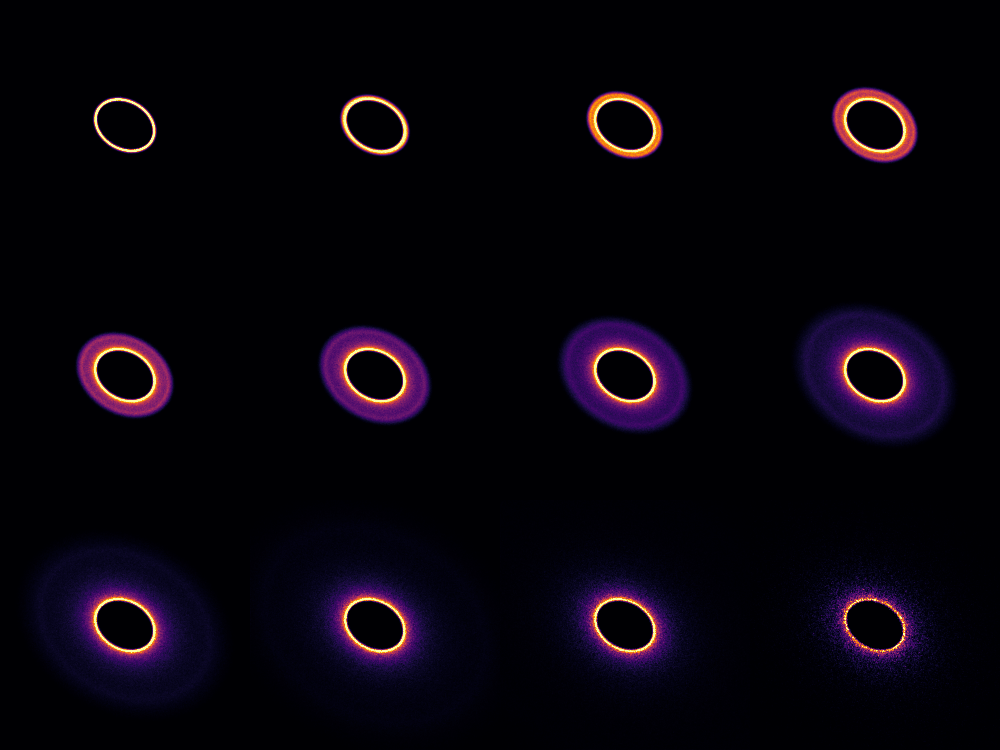
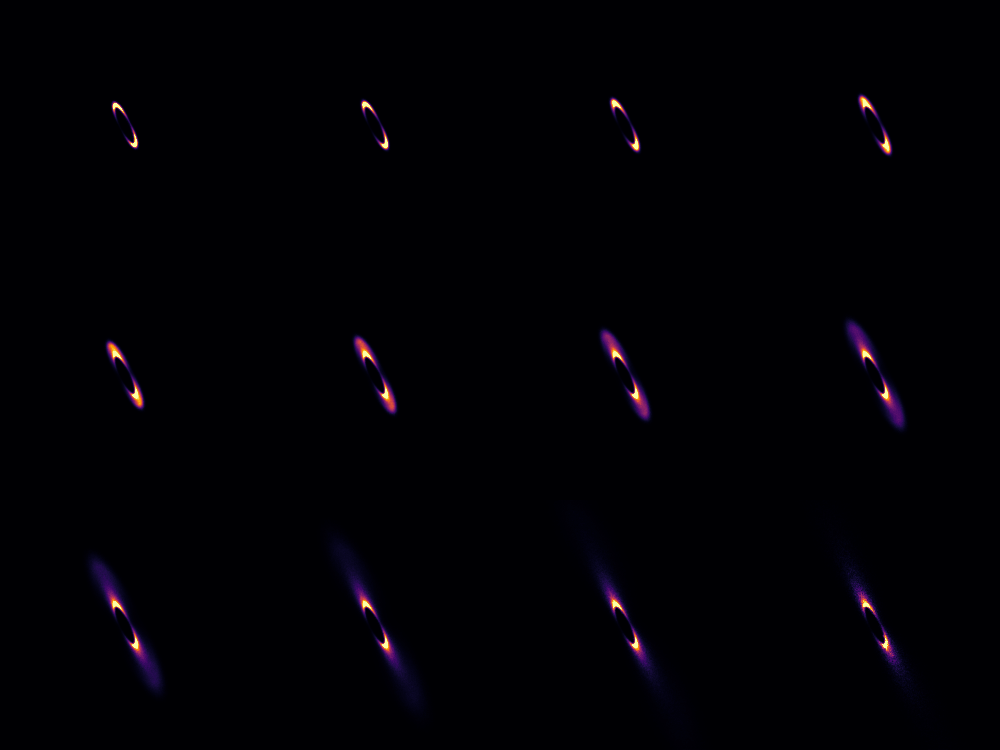
Radial profiles

diff --git a/betadisk.py b/betadisk.py
@@ -12,7 +12,7 @@ class BetaDisk(object):
     """
     docstring for BetaDisk
     """
-    def __init__(self, nx = 300, nl = 10_000_000, nb = 50, ng = 10, pixscale = 0.01226, bmax = 0.49, \
+    def __init__(self, nx = 300, nl = 10_000_000, nb = 51, ng = 10, pixscale = 0.01226, bmax = 0.49, \
             bmin = 0.001, slope = 0.5, thermal = False, lstar = None, dpc = None, owave = None, \
             nwav = 100, dx = 0., dy = 0.):
         """
@@ -23,13 +23,49 @@ class BetaDisk(object):
         self._slope = slope
         self._dx, self._dy = dx, dy
         self._beta = self._get_size(bmin, bmax)
+        self._r = np.zeros(self._nl)
         self._bgrid = np.linspace(bmin, bmax, num = ng+1)
         self.model = np.zeros((self._ng, self._nx, self._nx))
-        self._a, self._dr, self._incl, self._pa, self._opang, self._pfunc = 1., 0.02, 0., 0., 0.05, None
+        self._incl, self._pa, self._opang, self._pfunc = 0., 0., 0.05, None
         self._dpi, self._is_hg, self._ghg = False, False, 0.
         self._thermal, self._lstar, self._dpc, self._owave = thermal, lstar, dpc, owave
         self.wave = np.geomspace(0.1, 2000., num = self._nwav)
         self.sed = np.zeros((self._nwav, self._ng))
+        # self._radial = {"model_type": "normal", "a": 1., "dr": 0.1}
+        self._radial = {"model_type": "powerlaws", "a": 1., "pin": 5.0, "pout": -5.0, "gamma": 2., "threshold": 1.e-2, "nr": 100}
+
+    def _check_radial(self):
+        """
+        Check that the dictionary for the radial structure
+        contains enough information
+        """
+        keys = self._radial.keys()
+        if self._radial["model_type"] == "powerlaws":
+            if ("a" not in keys) or ("pin" not in keys) or ("pout" not in keys) or ("nr" not in keys):
+                print("Problem with the way the radial structure is defined ... ")
+                sys.exit(0)
+        elif self._radial["model_type"] == "normal":
+            if ("a" not in keys) or ("dr" not in keys):
+                print("Problem with the way the radial structure is defined ... ")
+                sys.exit(0)
+        else:
+            print("Problem with the kind of radial structure you want")
+            sys.exit(0)
+
+    def _get_radial(self):
+        """
+        Commpute the radial distribution of the birth ring
+        """
+        self._check_radial()
+        if self._radial["model_type"] == "powerlaws":
+            rmax = self._radial["threshold"]**(1.e0 / self._radial["pout"]) * self._radial["a"]
+            rmin = self._radial["threshold"]**(1.e0 / self._radial["pin"]) * self._radial["a"]
+            r = np.linspace(rmin, rmax, num = self._radial["nr"])
+            dens = ((r/self._radial["a"])**(-self._radial["pin"]*self._radial["gamma"]) + (r/self._radial["a"])**(-self._radial["pout"]*self._radial["gamma"]))**(-1./self._radial["gamma"])
+            dens /= np.sum(dens)
+            self._r = np.random.choice(r, size = self._nl, p=dens)
+        elif self._radial["model_type"] == "normal":
+            self._r = np.random.normal(self._radial["a"], self._radial["dr"], size = self._nl)
 
     def _get_size(self, smin, smax):
         """
@@ -46,13 +82,13 @@ class BetaDisk(object):
         """
         self._check_parameters(kwargs)
         if self._lstar is None:
-            raise ValueError('You need to provide a luminosity for the SED')
+            raise ValueError("You need to provide a luminosity for the SED")
         if self._dpc is None:
-            raise ValueError('You need to provide a distance in pc for the SED')
+            raise ValueError("You need to provide a distance in pc for the SED")
         for i in range(self._ng):
             sel = ((self._beta >= self._bgrid[i]) & (self._beta < self._bgrid[i+1]))
             btmp = self._beta[sel]
-            self.sed[:,i] = frame.sed(btmp, self._a, self._dr, self._opang, self._slope,\
+            self.sed[:,i] = frame.sed(btmp, self._r, self._opang, self._slope,\
                                              self._dpc, self._lstar, self.wave, len(btmp))
 
     def compute_model(self, **kwargs):
@@ -68,15 +104,15 @@ class BetaDisk(object):
         """
         if self._thermal:
             if self._lstar is None:
-                raise ValueError('You need to provide a luminosity for thermal images')
+                raise ValueError("You need to provide a luminosity for thermal images")
             if self._dpc is None:
-                raise ValueError('You need to provide a distance in pc for thermal images')
+                raise ValueError("You need to provide a distance in pc for thermal images")
             if self._owave is None:
-                raise ValueError('You need to provide a wavelength in microns for thermal images')
+                raise ValueError("You need to provide a wavelength in microns for thermal images")
             for i in range(self._ng):
                 sel = ((self._beta >= self._bgrid[i]) & (self._beta < self._bgrid[i+1]))
                 btmp = self._beta[sel]
-                self.model[i,:,:] = frame.alma(btmp, self._a, self._dr, self._incl, \
+                self.model[i,:,:] = frame.alma(btmp, self._r, self._incl, \
                                                  self._opang, self._pa, self._pixscale, self._slope,\
                                                  self._dpc, self._lstar, self._owave, \
                                                  self._dx, self._dy, len(btmp), self._nx)
@@ -93,7 +129,7 @@ class BetaDisk(object):
                         pfunc = self._pfunc
                 sel = ((self._beta >= self._bgrid[i]) & (self._beta < self._bgrid[i+1]))
                 btmp = self._beta[sel]
-                self.model[i,:,:] = frame.sphere(btmp, self._a, self._dr, self._incl, \
+                self.model[i,:,:] = frame.sphere(btmp, self._r, self._incl, \
                                                  self._opang, self._pa, self._pixscale, self._slope,\
                                                  self._is_hg, ghg, self._theta, pfunc, self._dx, self._dy,\
                                                  len(btmp), self._nx, self._dpi)
@@ -105,37 +141,68 @@ class BetaDisk(object):
         """
         Check parameters that are being passed
         """
-        if 'a' in kwargs:
-            self._a = kwargs['a']
-        if 'dr' in kwargs:
-            self._dr = kwargs['dr']
-        if 'incl' in kwargs:
-            self._incl = kwargs['incl'] * np.pi / 180.
-        if 'pa' in kwargs:
-            self._pa = kwargs['pa'] * np.pi / 180.
-        if 'opang' in kwargs:
-            self._opang = kwargs['opang']
-        if 'dpi' in kwargs:
-            self._dpi = kwargs['dpi']
-        if 'is_hg' in kwargs:
-            self._is_hg = kwargs['is_hg']
-            if 'ghg' in kwargs:
-                self._ghg = kwargs['ghg']
+        if "model_type" in kwargs:
+            self._radial["model_type"] = kwargs["model_type"]
+        if "a" in kwargs:
+            self._radial["a"] = kwargs["a"]
+        if "pin" in kwargs:
+            self._radial["pin"] = kwargs["pin"]
+        if "pout" in kwargs:
+            self._radial["pout"] = kwargs["pout"]
+        if "dr" in kwargs:
+            self._radial["dr"] = kwargs["dr"]
+        if "incl" in kwargs:
+            self._incl = kwargs["incl"] * np.pi / 180.
+        if "pa" in kwargs:
+            self._pa = kwargs["pa"] * np.pi / 180.
+        if "opang" in kwargs:
+            self._opang = kwargs["opang"]
+        if "dpi" in kwargs:
+            self._dpi = kwargs["dpi"]
+        if "is_hg" in kwargs:
+            self._is_hg = kwargs["is_hg"]
+            if "ghg" in kwargs:
+                self._ghg = kwargs["ghg"]
                 if type(self._ghg) is np.ndarray:
                     if len(self._ghg) != self._ng:
-                        print('The array for HG should have the same size as the number of grain sizes')
+                        print("The array for HG should have the same size as the number of grain sizes")
                         sys.exit(0)
-        if 'pfunc' in kwargs:
-            self._pfunc = kwargs['pfunc']
+        if "pfunc" in kwargs:
+            self._pfunc = kwargs["pfunc"]
             self._theta = np.linspace(0., np.pi, num = np.shape(self._pfunc)[0])
+        self._get_radial()
 
     @property
     def a(self):
-        return self._a
+        return self._radial["a"]
 
     @a.setter
     def a(self, a):
-        self._a = a
+        self._radial["a"] = a
+
+    @property
+    def model_type(self):
+        return self._radial["model_type"]
+
+    @model_type.setter
+    def model_type(self, model_type):
+        self._radial["model_type"] = model_type
+
+    @property
+    def pin(self):
+        return self._radial["pin"]
+
+    @pin.setter
+    def pin(self, pin):
+        self._radial["pin"] = pin
+
+    @property
+    def pout(self):
+        return self._radial["pout"]
+
+    @pout.setter
+    def pout(self, pout):
+        self._radial["pout"] = pout
 
     @property
     def opang(self):
@@ -147,11 +214,11 @@ class BetaDisk(object):
 
     @property
     def dr(self):
-        return self._dr
+        return self._radial["dr"]
 
     @dr.setter
     def dr(self, dr):
-        self._dr = dr
+        self._radial["dr"] = dr
 
     @property
     def incl(self):
@@ -177,8 +244,8 @@ def example_image():
         cx = nx//2
     disk = BetaDisk(nx = nx, ng = ng)
     t0 = time.perf_counter()
-    disk.compute_model(a = 1.5, dr = 0.030, incl = 40.0, pa = -120.0, opang = 0.05)
-    print('Whole process took: {:.2f} sec'.format(time.perf_counter()-t0))
+    disk.compute_model(a = 1.08, pin = 29., pout = -21.89, incl = 76.0, pa = -153.6, opang = 0.05, is_hg = True, dpi = True, ghg = 0.3)
+    print("Whole process took: {:.2f} sec".format(time.perf_counter()-t0))
     """
     Make a pretty plot
     """
@@ -190,8 +257,8 @@ def example_image():
     for i in range(3):
         for j in range(4):
             ax1 = fig.add_subplot(ax[i,j])
-            ax1.imshow(disk.model[ct,], origin='lower', extent = [xlim, -xlim, -xlim, xlim],
-                            vmax=np.percentile(disk.model[ct,], 99.5), cmap = 'inferno')
+            ax1.imshow(disk.model[ct,], origin='lower', extent = (xlim, -xlim, -xlim, xlim),
+                            vmax=np.percentile(disk.model[ct,], 99.9), cmap = 'inferno')
             ax1.set_xticks([])
             ax1.set_yticks([])
             ax1.set_axis_off()
@@ -203,16 +270,16 @@ def example_sed():
     ng = 12
     disk = BetaDisk(ng = ng, lstar = 2.5, dpc = 100.)
     t0 = time.perf_counter()
-    disk.compute_sed(a = 0.5, dr = 0.030, opang = 0.05)
+    disk.compute_sed(a = 1.05, pin = 25., opang = 0.05)
     print('Whole process took: {:.2f} sec'.format(time.perf_counter()-t0))
     sedisk = np.sum(disk.sed, axis = 1) * CC/disk.wave
     index = np.log10(sedisk[90]/sedisk[80])/np.log10(disk.wave[90]/disk.wave[80])
-    print('Mm index between {:.2f} and {:.2f} is: {:.2f}'.format(disk.wave[80], disk.wave[90], index))
+    print("Mm index between {:.2f} and {:.2f} is: {:.2f}".format(disk.wave[80], disk.wave[90], index))
     """
     Make a pretty plot
     """
     fig = plt.figure(figsize=(7,6))
-    ax1 = fig.add_axes([0.16, 0.14, 0.8, 0.79])
+    ax1 = fig.add_axes((0.16, 0.14, 0.8, 0.79))
     ax1.set_xscale("log", nonpositive='clip')
     ax1.set_yscale("log", nonpositive='clip')
     for i in range(ng):
@@ -226,7 +293,7 @@ def example_sed():
 
 
 if __name__ == "__main__":
-    # example_image()
-    example_sed()
+    example_image()
+    # example_sed()
 
 

diff --git a/frame.py b/frame.py
@@ -80,21 +80,19 @@ def binarysearch(arr, h, x):
     return l
 
 @njit(nogil=True)
-def get_xyz(a, dr, opang, ecc, beta):
+def get_xyz(a, opang, ecc, beta):
     """
     Get the orbital parameters of the parent bodies
     """
     w = np.random.random() * 2. * np.pi - np.pi
     pa = np.random.random() * 2. * np.pi - np.pi
     deltai = np.random.normal(0., opang)
-    # deltai = np.random.rayleigh(scale = opang)
-    # sma = np.random.uniform(a, a+dr)
-    sma = np.random.normal(a, dr)
+    # sma = np.random.normal(a, dr)
     nu_l = get_launch(ecc)
     """
     Get the updated orbital parameters
     """
-    an = sma * (1.e0 - beta) / (1.e0 - 2. * beta*(1.0 + ecc * np.cos(nu_l))/(1.0 - ecc * ecc))
+    an = a * (1.e0 - beta) / (1.e0 - 2. * beta*(1.0 + ecc * np.cos(nu_l))/(1.0 - ecc * ecc))
     en = 1. / (1.0 - beta) * np.sqrt(ecc * ecc + 2.0 * beta * ecc * np.cos(nu_l) + beta * beta)
     wn = np.arctan2(beta * np.sin(nu_l), (beta * np.cos(nu_l) + ecc)) + w
     """
@@ -115,8 +113,8 @@ def get_xyz(a, dr, opang, ecc, beta):
 
 
 @njit(nogil=True)
-@ccompile.export('sed', 'f8[:](f8[:], f8, f8, f8, f8, f8, f8, f8[:], i4)')
-def sed(beta, a, dr, opang, slope, dpc, lstar, wave, nl):
+@ccompile.export('sed', 'f8[:](f8[:], f8[:], f8, f8, f8, f8, f8[:], i4)')
+def sed(beta, a, opang, slope, dpc, lstar, wave, nl):
     nu = CC / wave
     bterm = 2. * HH * nu * nu * nu / (CC * CC)
     expcst = nu * HH / KK
@@ -127,7 +125,7 @@ def sed(beta, a, dr, opang, slope, dpc, lstar, wave, nl):
     Here we go
     """
     for il in range(nl):
-        xm, ym, zm, dist = get_xyz(a, dr, opang, ecc, beta[il])
+        _, _, _, dist = get_xyz(a[il], opang, ecc, beta[il])
         btemp = 278.3 / np.sqrt(dist*dpc) * lstar**0.25
         expterm = np.exp(expcst / btemp)
         bplanck = bterm / (expterm-1.0) # should be in erg/s/cm/cm/Hz
@@ -137,8 +135,8 @@ def sed(beta, a, dr, opang, slope, dpc, lstar, wave, nl):
     return sedist
 
 @njit(nogil=True)
-@ccompile.export('alma', 'f8[:,:](f8[:], f8, f8, f8, f8, f8, f8, f8, f8, f8, f8, f8, f8, i4, i4)')
-def alma(beta, a, dr, incl, opang, dpa, pixscale, slope, dpc, lstar, wave, dx, dy, nl, nx):
+@ccompile.export('alma', 'f8[:,:](f8[:], f8[:], f8, f8, f8, f8, f8, f8, f8, f8, f8, f8, i4, i4)')
+def alma(beta, a, incl, opang, dpa, pixscale, slope, dpc, lstar, wave, dx, dy, nl, nx):
     nu = CC / wave
     bterm = 2. * HH * nu * nu * nu / (CC * CC)
     expcst = nu * HH / KK
@@ -158,7 +156,7 @@ def alma(beta, a, dr, incl, opang, dpa, pixscale, slope, dpc, lstar, wave, dx, d
     Here we go
     """
     for il in range(nl):
-        xm, ym, zm, dist = get_xyz(a, dr, opang, ecc, beta[il])
+        xm, ym, zm, dist = get_xyz(a[il], opang, ecc, beta[il])
         btemp = 278.3 / np.sqrt(dist*dpc) * lstar**0.25
         expterm = np.exp(expcst / btemp)
         bplanck = bterm / (expterm-1.0) # the units don't matter since this is at one wavelength
@@ -170,8 +168,8 @@ def alma(beta, a, dr, incl, opang, dpa, pixscale, slope, dpc, lstar, wave, dx, d
         xn = xm * cospa - ym * sinpa
         yn = xm * sinpa + ym * cospa
 
-        xn = int((xn + dx)/pixscale + cx)
-        yn = int((yn + dy)/pixscale + cx)
+        xn = int((xn + dy)/pixscale + cx) # I put dy so that this would be in Declination
+        yn = int((yn + dx)/pixscale + cx) # I put dx so that this would be in RA. And I'm using -dx so that it goes in the other direction
         if ((xn>=0) and (xn<=nx-1) and (yn>=0) and (yn<=nx-1)):
             corr_fac = (beta[il]/0.49)**(1.5-slope-2.)
             corr_fac *= ((1.-beta[il])/(1.-2.*beta[il]))**(1.5)
@@ -180,8 +178,8 @@ def alma(beta, a, dr, incl, opang, dpa, pixscale, slope, dpc, lstar, wave, dx, d
 
 
 @njit(nogil=True)
-@ccompile.export('sphere', 'f8[:,:](f8[:], f8, f8, f8, f8, f8, f8, f8, b1, f8, f8[:], f8[:], f8, f8, i4, i4, b1)')
-def sphere(beta, a, dr, incl, opang, dpa, pixscale, slope, is_hg, ghg, theta, pfunc, dx, dy, nl, nx, dpi):
+@ccompile.export('sphere', 'f8[:,:](f8[:], f8[:], f8, f8, f8, f8, f8, b1, f8, f8[:], f8[:], f8, f8, i4, i4, b1)')
+def sphere(beta, a, incl, opang, dpa, pixscale, slope, is_hg, ghg, theta, pfunc, dx, dy, nl, nx, dpi):
     np.random.seed(10)
     if nx%2 == 0:
         cx = nx //2 - 0.5
@@ -199,7 +197,7 @@ def sphere(beta, a, dr, incl, opang, dpa, pixscale, slope, is_hg, ghg, theta, pf
     nl particules that will be launched
     """
     for il in range(nl):
-        xm, ym, zm, dist = get_xyz(a, dr, opang, ecc, beta[il])
+        xm, ym, zm, dist = get_xyz(a[il], opang, ecc, beta[il])
         th = np.arccos((ym * sini - zm * cosi) / dist)
         if is_hg:
             hg = 1./(4.*np.pi) * (1. - ghg*ghg)/(1.+ghg*ghg - 2. * ghg * np.cos(th))**1.5
@@ -213,15 +211,15 @@ def sphere(beta, a, dr, incl, opang, dpa, pixscale, slope, is_hg, ghg, theta, pf
         and then rotate for the position angle
         """
         ym = ym * cosi - zm * sini
-        xnew = xm * cospa - ym * sinpa
-        ynew = xm * sinpa + ym * cospa
+        xn = xm * cospa - ym * sinpa
+        yn = xm * sinpa + ym * cospa
 
-        xn = int(((xnew + dx)/pixscale) + cx)
-        yn = int(((ynew + dy)/pixscale) + cx)
+        xn = int((xn + dy)/pixscale + cx) # I put dy so that this would be in Declination
+        yn = int((yn - dx)/pixscale + cx) # I put dx so that this would be in RA. And this is -dx so that it goes in the other direction
         if ((xn>=0) and (xn<=nx-1) and (yn>=0) and (yn<=nx-1)):
             """
             It should be 1.5-slope and then -2 for the size**2,
-            since s \propto 1/beta there is a 1/beta**2
+            since s propto 1/beta there is a 1/beta**2
             """
             corr_fac = (beta[il])**(1.5 - slope - 2.)
             corr_fac *= ((1.-beta[il])/(1.-2.*beta[il]))**(1.5)
